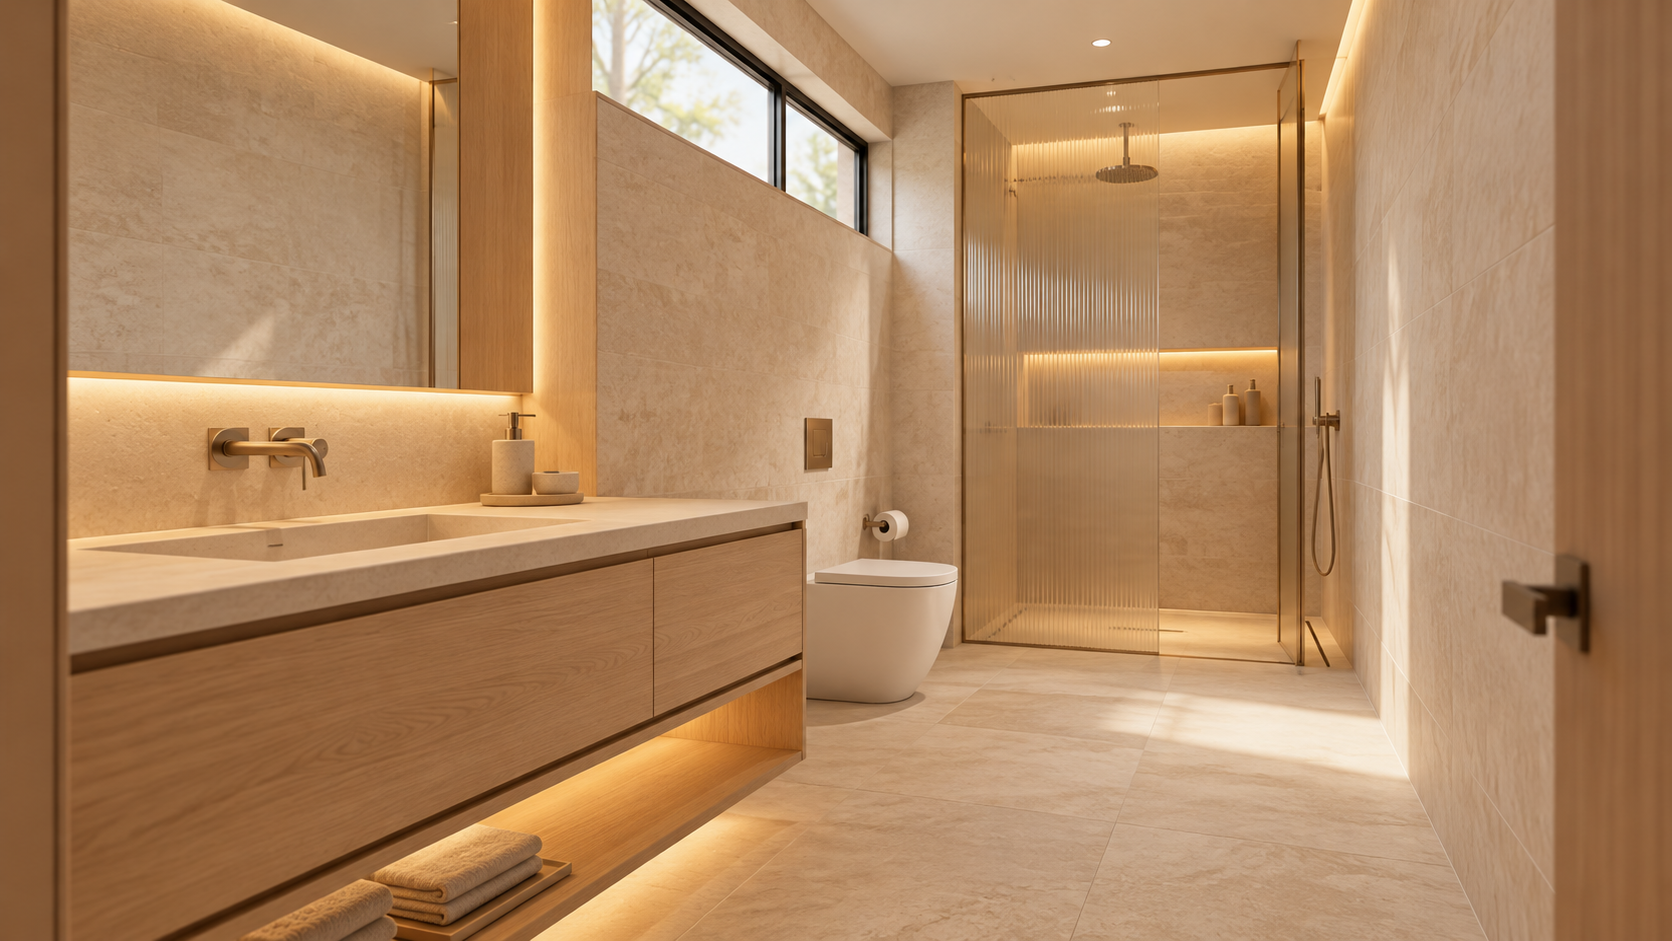
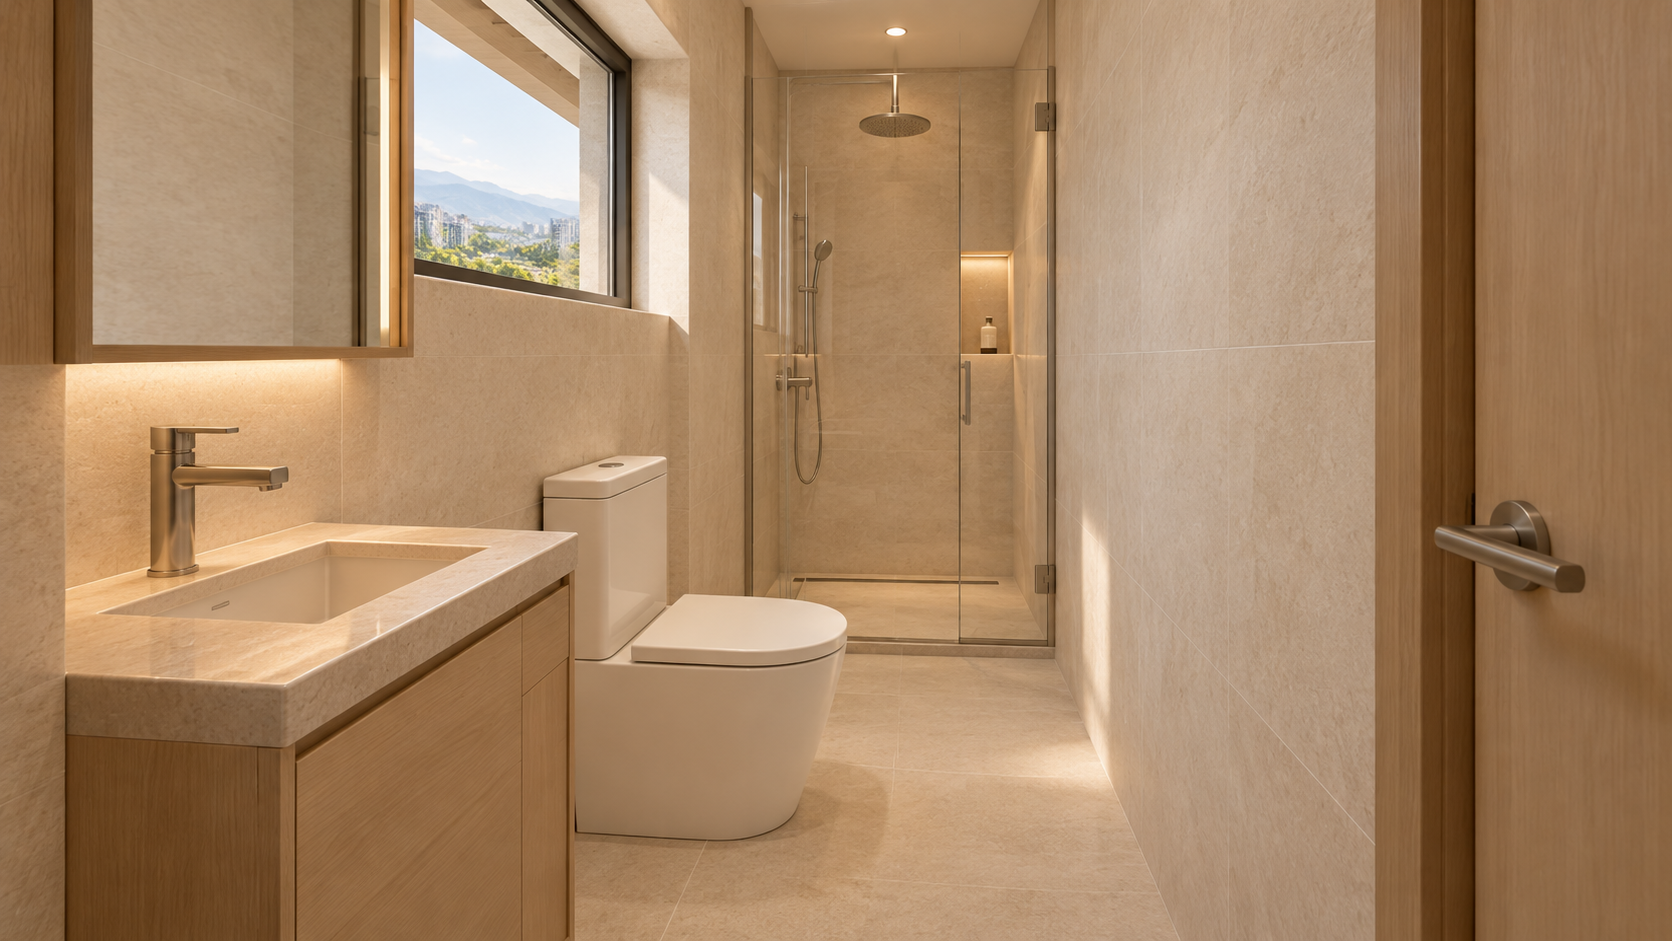
Align premium room renders with B1 floor plan

diff --git a/studio-home.js b/studio-home.js
@@ -112,7 +112,7 @@
   const capture=document.createElement('button');capture.textContent='儲存 3D 視角';capture.title='將目前即時渲染儲存為 PNG';capture.onclick=()=>{const link=document.createElement('a');link.download=`B1-${selected}-3d-render.png`;link.href=canvas.toDataURL('image/png');link.click();};document.querySelector('.toolbar').append(capture);
   // Curated photoreal render gallery: these are high-detail design views, while
   // the canvas above remains the measured interactive model.
-  const premiumRenders={living:['客廳','renders/living-premium.png'],kitchen:['餐廚','renders/kitchen-premium.png'],master:['主臥','renders/master-premium.png'],media:['多功能室','renders/media-premium.png'],guest:['次臥','renders/guest-premium.png'],bath:['客用衛浴','renders/bath-premium.png'],ensuite:['主臥衛浴','renders/ensuite-premium.png'],entry:['玄關','renders/entry-premium.png'],laundry:['洗衣陽台','renders/laundry-premium.png']};
+  const premiumRenders={living:['客廳','renders/living-premium.png'],kitchen:['餐廚','renders/kitchen-premium.png?v=20261024-layout2'],master:['主臥','renders/master-premium.png?v=20261024-layout2'],media:['多功能室','renders/media-premium.png?v=20261024-layout2'],guest:['次臥','renders/guest-premium.png?v=20261024-layout2'],bath:['客用衛浴','renders/bath-premium.png?v=20261024-layout2'],ensuite:['主臥衛浴','renders/ensuite-premium.png?v=20261024-layout2'],entry:['玄關','renders/entry-premium.png?v=20261024-layout2'],laundry:['洗衣陽台','renders/laundry-premium.png?v=20261024-layout2']};
   const gallery=document.createElement('section');gallery.className='render-gallery';gallery.innerHTML='<div class="render-gallery__head"><div><p class="overline">PREMIUM RENDER COLLECTION</p><b>高級空間渲染</b></div><label>選擇空間 <select aria-label="選擇高級渲染空間"></select></label></div><figure><img alt="高級室內設計渲染"><figcaption></figcaption></figure>';
   const gallerySelect=gallery.querySelector('select'),galleryImage=gallery.querySelector('img'),galleryCaption=gallery.querySelector('figcaption');
   for(const [key,[label]] of Object.entries(premiumRenders)){const option=document.createElement('option');option.value=key;option.textContent=label;gallerySelect.append(option);}

diff --git a/UPGRADE.md b/UPGRADE.md
@@ -85,3 +85,4 @@ iPhone/Android hardware validation. Publish existing Pages repo and refresh loca
 ## Premium render gallery
 - Add nine curated, 16:9 photoreal design renders for the living room, kitchen, bedrooms, media room, both bathrooms, entry and laundry balcony.
 - The website provides a space selector; choosing a view also selects the matching measured 3D room. Render images are a presentation layer, not a construction drawing.
+- Regenerate the eight non-living-room views against the B1 plan and existing 3D room layout: room footprint, furniture orientation, window position, appliance or fixture sizes, entry clearance, and balcony railing are constrained to their modeled arrangements.
